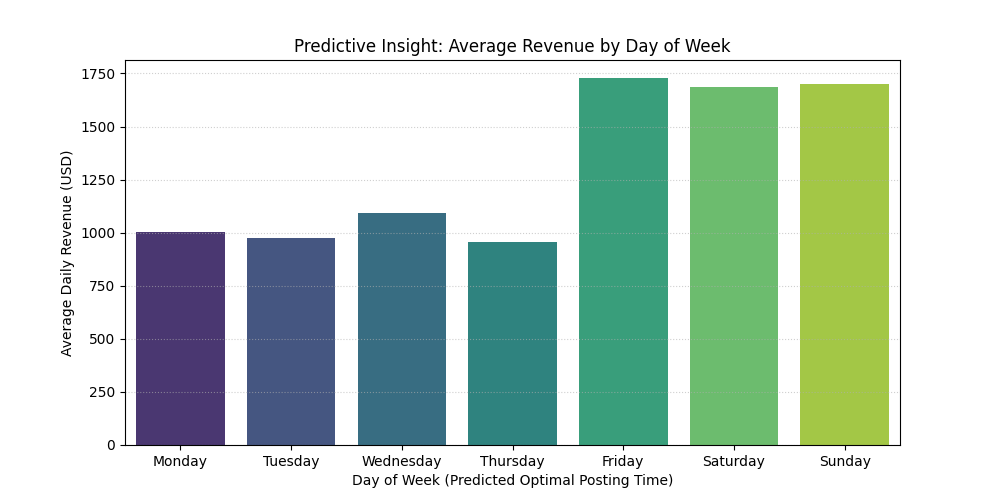
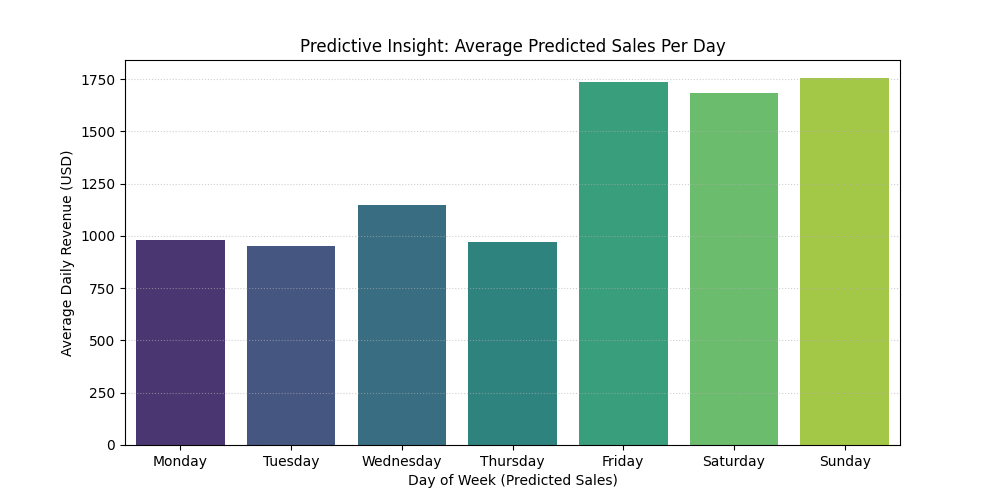
FIX: Updated Chart 2 title to 'Predicted Sales Per Day' for clarity.

diff --git a/Analytics_Script.py b/Analytics_Script.py
@@ -211,8 +211,8 @@ daily_avg = daily_avg.sort_values('day_name')
 
 plt.figure(figsize=(10, 5))
 sns.barplot(x='day_name', y='avg_revenue', data=daily_avg, palette='viridis', hue='day_name', legend=False)
-plt.title('Predictive Insight: Average Revenue by Day of Week')
-plt.xlabel('Day of Week (Predicted Optimal Posting Time)')
+plt.title('Predictive Insight: Average Predicted Sales Per Day')
+plt.xlabel('Day of Week (Predicted Sales)')
 plt.ylabel('Average Daily Revenue (USD)')
 plt.grid(axis='y', linestyle=':', alpha=0.6)
 plt.savefig('web/revenue_by_day_of_week.png')
